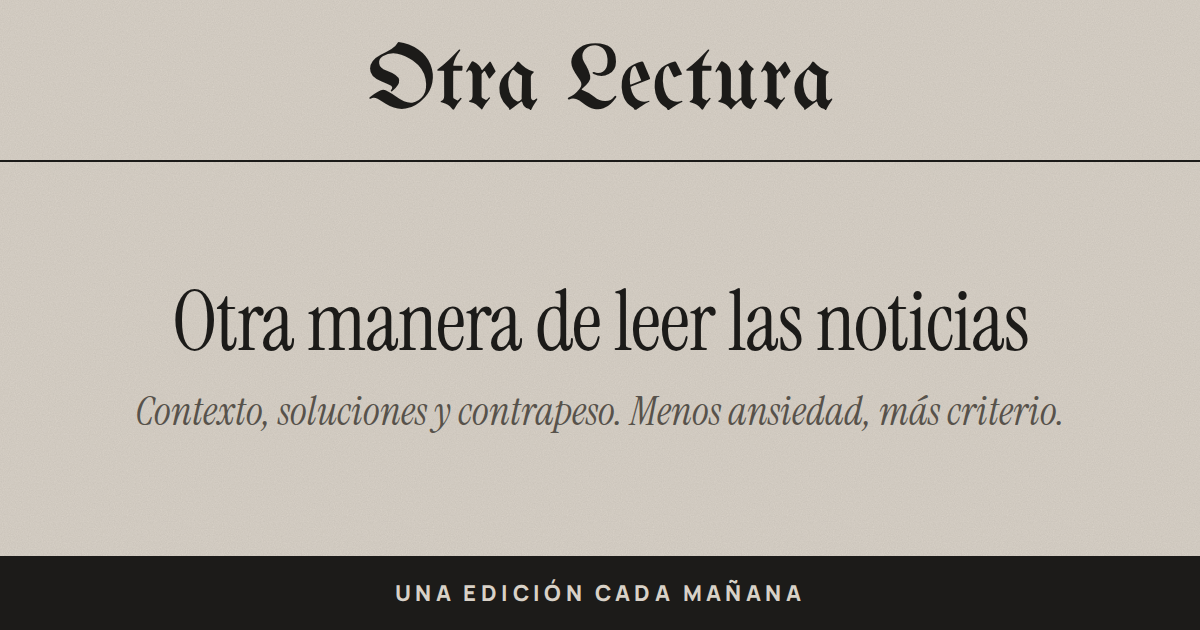
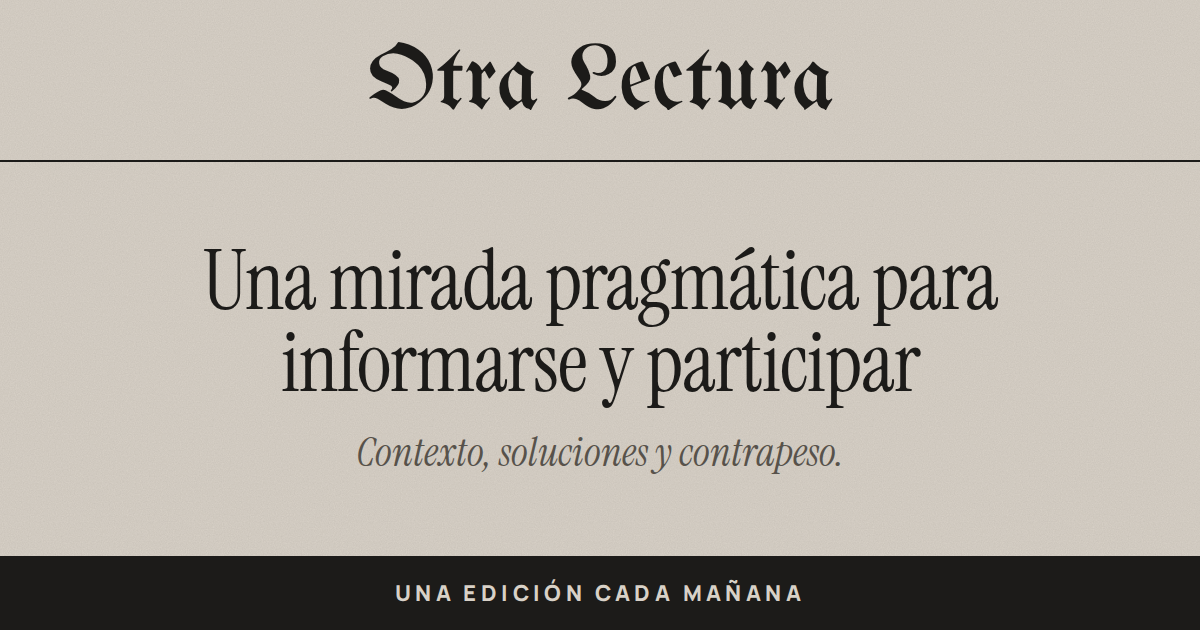
Sin lema bajo el logotipo; título e imagen para compartir alineados
Claude-Session: https://claude.ai/code/session_01PaiPt73Gg2dBxy8faNJwyJ

Changed region(s): [[0.0925, 0.3921, 0.8942, 0.754]]

diff --git a/site/index.html b/site/index.html
@@ -4,15 +4,15 @@
 <meta charset="utf-8">
 <meta name="viewport" content="width=device-width, initial-scale=1">
 <meta name="color-scheme" content="light dark">
-<title>Otra lectura · Otra manera de leer noticias</title>
+<title>Otra lectura</title>
 <meta name="description" content="Otra manera de leer noticias, con contexto, soluciones y contrapeso. Cada día, los problemas que se repiten en Colombia, América Latina y el mundo, con su…">
 <meta property="og:site_name" content="Otra lectura">
 <meta property="og:locale" content="es_CO">
 <meta property="og:type" content="website">
-<meta property="og:title" content="Otra lectura · Otra manera de leer noticias">
+<meta property="og:title" content="Otra lectura">
 <meta property="og:description" content="Otra manera de leer noticias, con contexto, soluciones y contrapeso. Cada día, los problemas que se repiten en Colombia, América Latina y el mundo, con su contexto histórico, las soluciones que ya funcionan en otros lugares y sus críticas.">
 <meta name="twitter:card" content="summary_large_image">
-<meta name="twitter:title" content="Otra lectura · Otra manera de leer noticias">
+<meta name="twitter:title" content="Otra lectura">
 <meta name="twitter:description" content="Otra manera de leer noticias, con contexto, soluciones y contrapeso. Cada día, los problemas que se repiten en Colombia, América Latina y el mundo, con su contexto histórico, las soluciones que ya funcionan en otros lugares y sus críticas.">
 <meta name="theme-color" content="#d8d1c7" media="(prefers-color-scheme: light)">
 <meta name="theme-color" content="#1b1a18" media="(prefers-color-scheme: dark)">
@@ -28,7 +28,6 @@
 <header class="sitio">
 <div class="marca">
 <a class="cabezote" href="index.html">Otra Lectura</a>
-<p class="lema">Otra manera de leer noticias</p>
 </div>
 <div class="barra">
 <nav class="principal" aria-label="Secciones">

diff --git a/plantilla/base.html b/plantilla/base.html
@@ -16,7 +16,6 @@ $meta
 <header class="sitio">
 <div class="marca">
 <a class="cabezote" href="${raiz}index.html">Otra Lectura</a>
-<p class="lema">Otra manera de leer noticias</p>
 </div>
 <div class="barra">
 <nav class="principal" aria-label="Secciones">

diff --git a/site/categorias/ambiente.html b/site/categorias/ambiente.html
@@ -28,7 +28,6 @@
 <header class="sitio">
 <div class="marca">
 <a class="cabezote" href="../index.html">Otra Lectura</a>
-<p class="lema">Otra manera de leer noticias</p>
 </div>
 <div class="barra">
 <nav class="principal" aria-label="Secciones">

diff --git a/site/categorias/ciencia.html b/site/categorias/ciencia.html
@@ -28,7 +28,6 @@
 <header class="sitio">
 <div class="marca">
 <a class="cabezote" href="../index.html">Otra Lectura</a>
-<p class="lema">Otra manera de leer noticias</p>
 </div>
 <div class="barra">
 <nav class="principal" aria-label="Secciones">

diff --git a/site/categorias/economia.html b/site/categorias/economia.html
@@ -28,7 +28,6 @@
 <header class="sitio">
 <div class="marca">
 <a class="cabezote" href="../index.html">Otra Lectura</a>
-<p class="lema">Otra manera de leer noticias</p>
 </div>
 <div class="barra">
 <nav class="principal" aria-label="Secciones">

diff --git a/site/categorias/salud.html b/site/categorias/salud.html
@@ -28,7 +28,6 @@
 <header class="sitio">
 <div class="marca">
 <a class="cabezote" href="../index.html">Otra Lectura</a>
-<p class="lema">Otra manera de leer noticias</p>
 </div>
 <div class="barra">
 <nav class="principal" aria-label="Secciones">

diff --git a/site/categorias/sociedad.html b/site/categorias/sociedad.html
@@ -28,7 +28,6 @@
 <header class="sitio">
 <div class="marca">
 <a class="cabezote" href="../index.html">Otra Lectura</a>
-<p class="lema">Otra manera de leer noticias</p>
 </div>
 <div class="barra">
 <nav class="principal" aria-label="Secciones">

diff --git a/site/ediciones/2026-09-22-radar-01.html b/site/ediciones/2026-09-22-radar-01.html
@@ -28,7 +28,6 @@
 <header class="sitio">
 <div class="marca">
 <a class="cabezote" href="../index.html">Otra Lectura</a>
-<p class="lema">Otra manera de leer noticias</p>
 </div>
 <div class="barra">
 <nav class="principal" aria-label="Secciones">

diff --git a/site/ediciones/2026-09-22-radar-02.html b/site/ediciones/2026-09-22-radar-02.html
@@ -28,7 +28,6 @@
 <header class="sitio">
 <div class="marca">
 <a class="cabezote" href="../index.html">Otra Lectura</a>
-<p class="lema">Otra manera de leer noticias</p>
 </div>
 <div class="barra">
 <nav class="principal" aria-label="Secciones">

diff --git a/site/ediciones/2026-09-23-radar.html b/site/ediciones/2026-09-23-radar.html
@@ -28,7 +28,6 @@
 <header class="sitio">
 <div class="marca">
 <a class="cabezote" href="../index.html">Otra Lectura</a>
-<p class="lema">Otra manera de leer noticias</p>
 </div>
 <div class="barra">
 <nav class="principal" aria-label="Secciones">

diff --git a/site/ediciones/2026-09-24-radar.html b/site/ediciones/2026-09-24-radar.html
@@ -28,7 +28,6 @@
 <header class="sitio">
 <div class="marca">
 <a class="cabezote" href="../index.html">Otra Lectura</a>
-<p class="lema">Otra manera de leer noticias</p>
 </div>
 <div class="barra">
 <nav class="principal" aria-label="Secciones">

diff --git a/site/candidatas.html b/site/candidatas.html
@@ -28,7 +28,6 @@
 <header class="sitio">
 <div class="marca">
 <a class="cabezote" href="index.html">Otra Lectura</a>
-<p class="lema">Otra manera de leer noticias</p>
 </div>
 <div class="barra">
 <nav class="principal" aria-label="Secciones">
